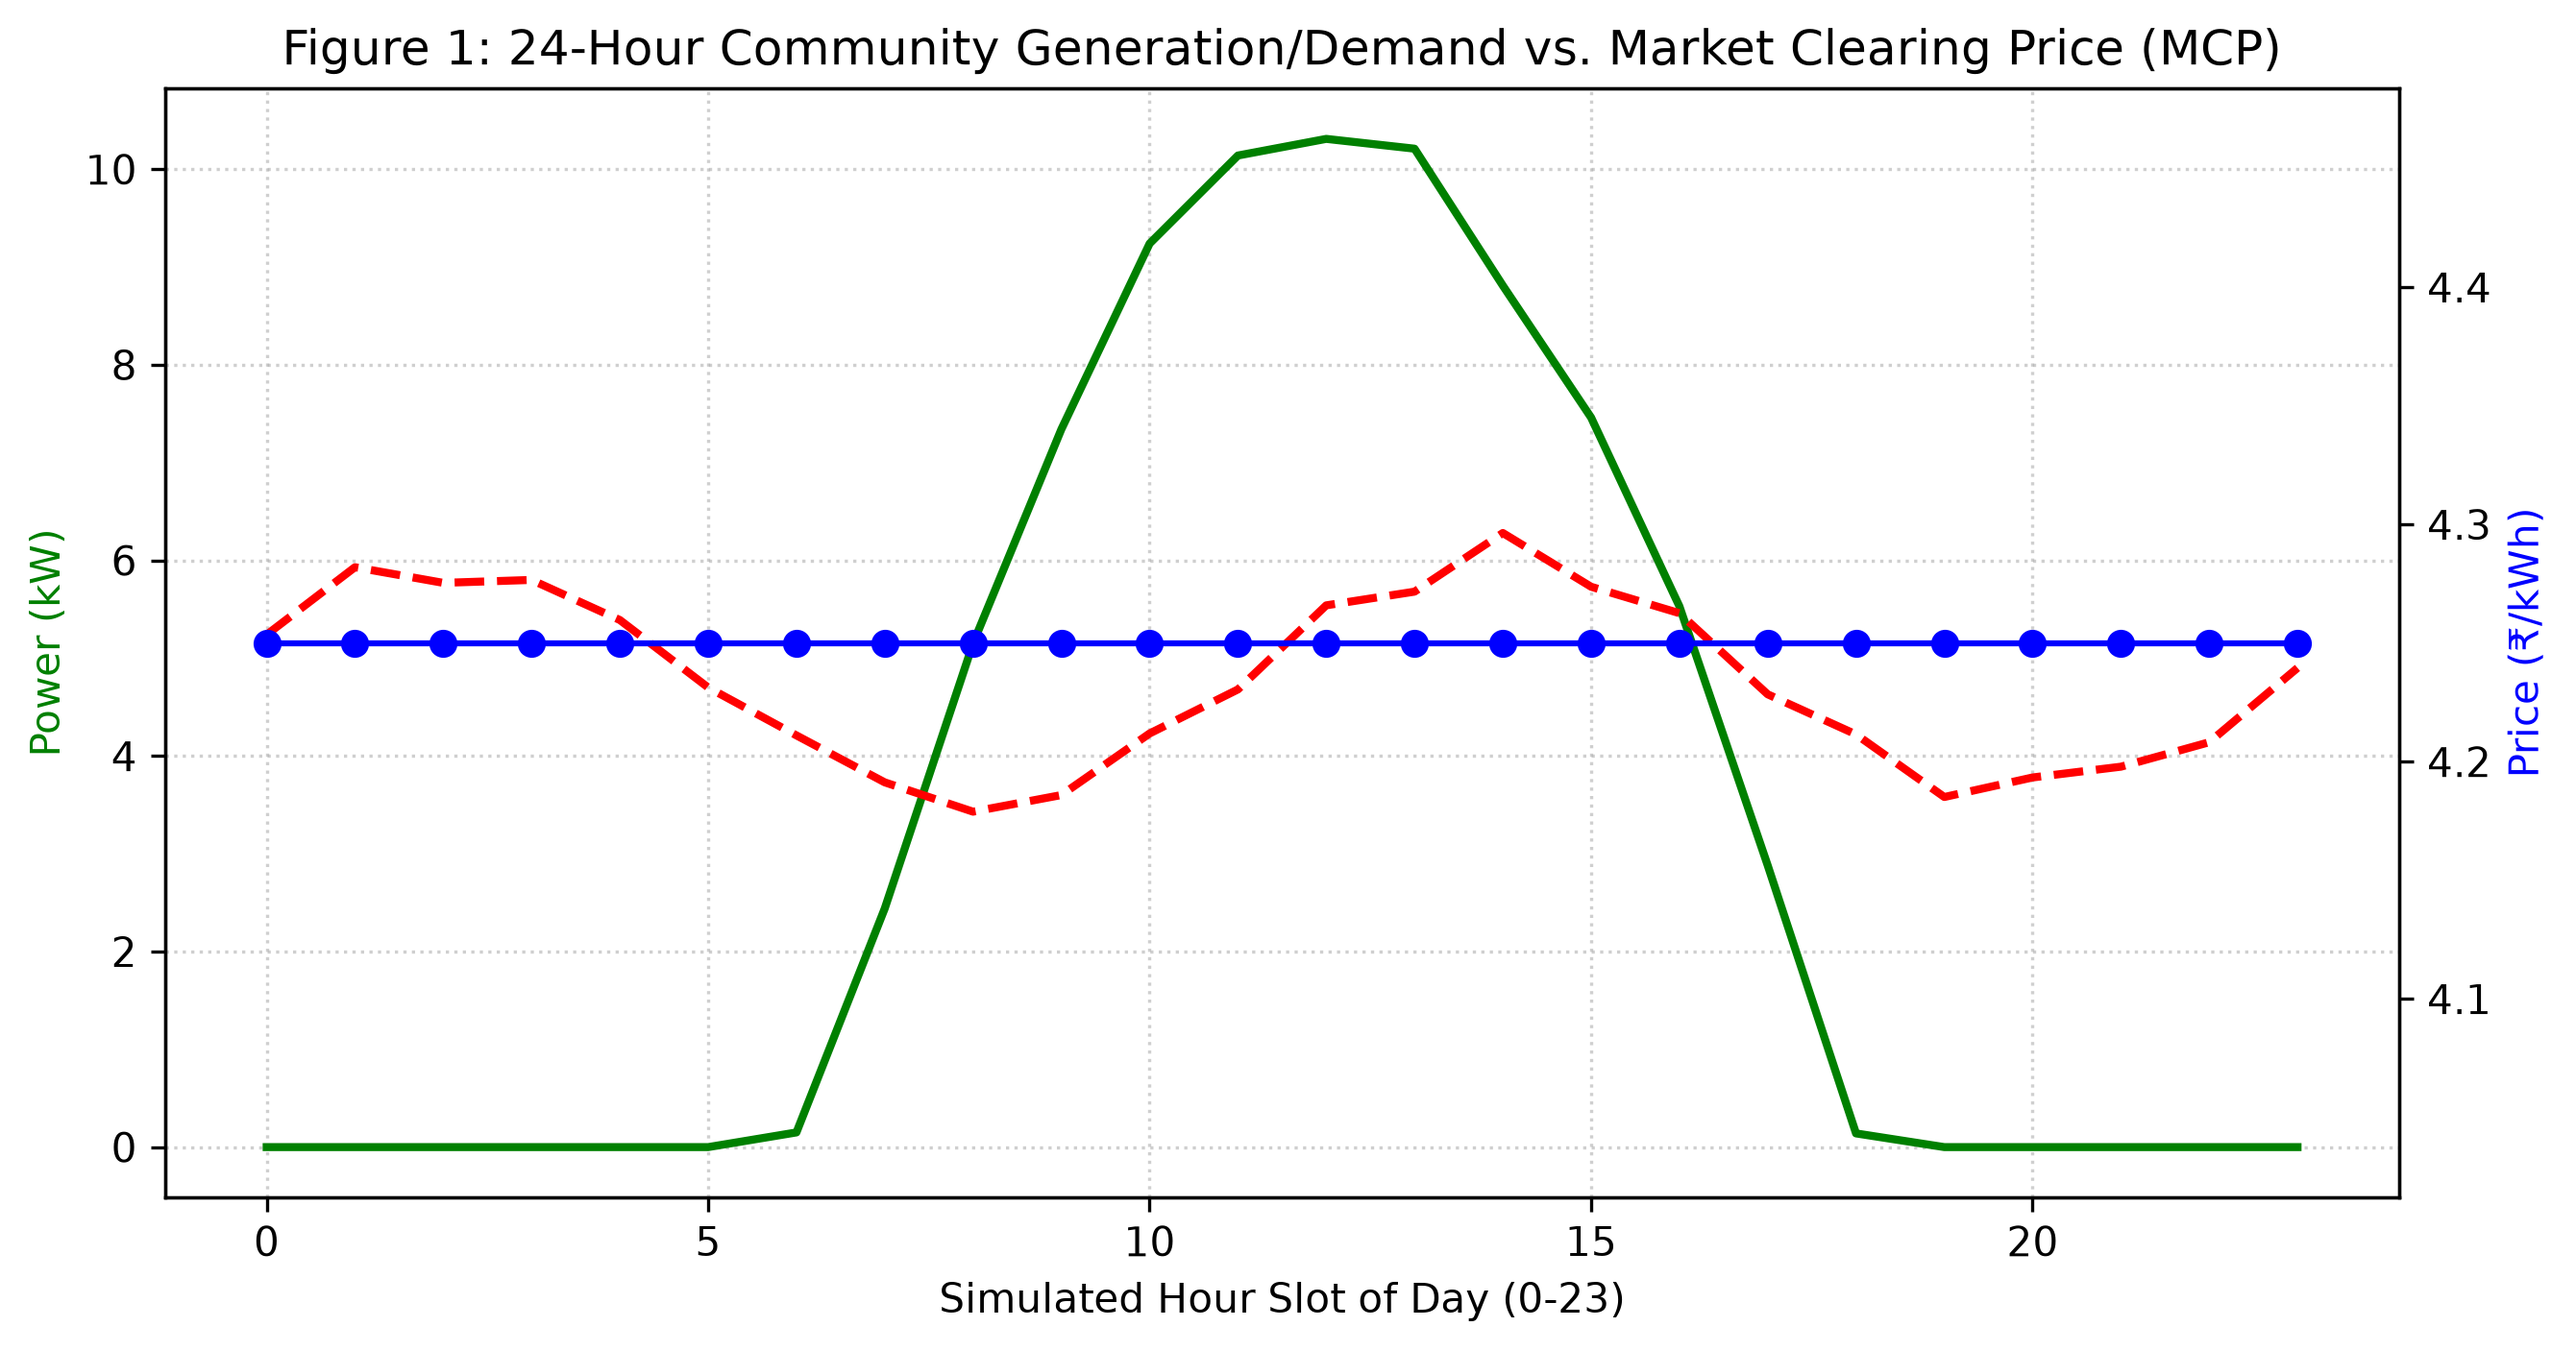
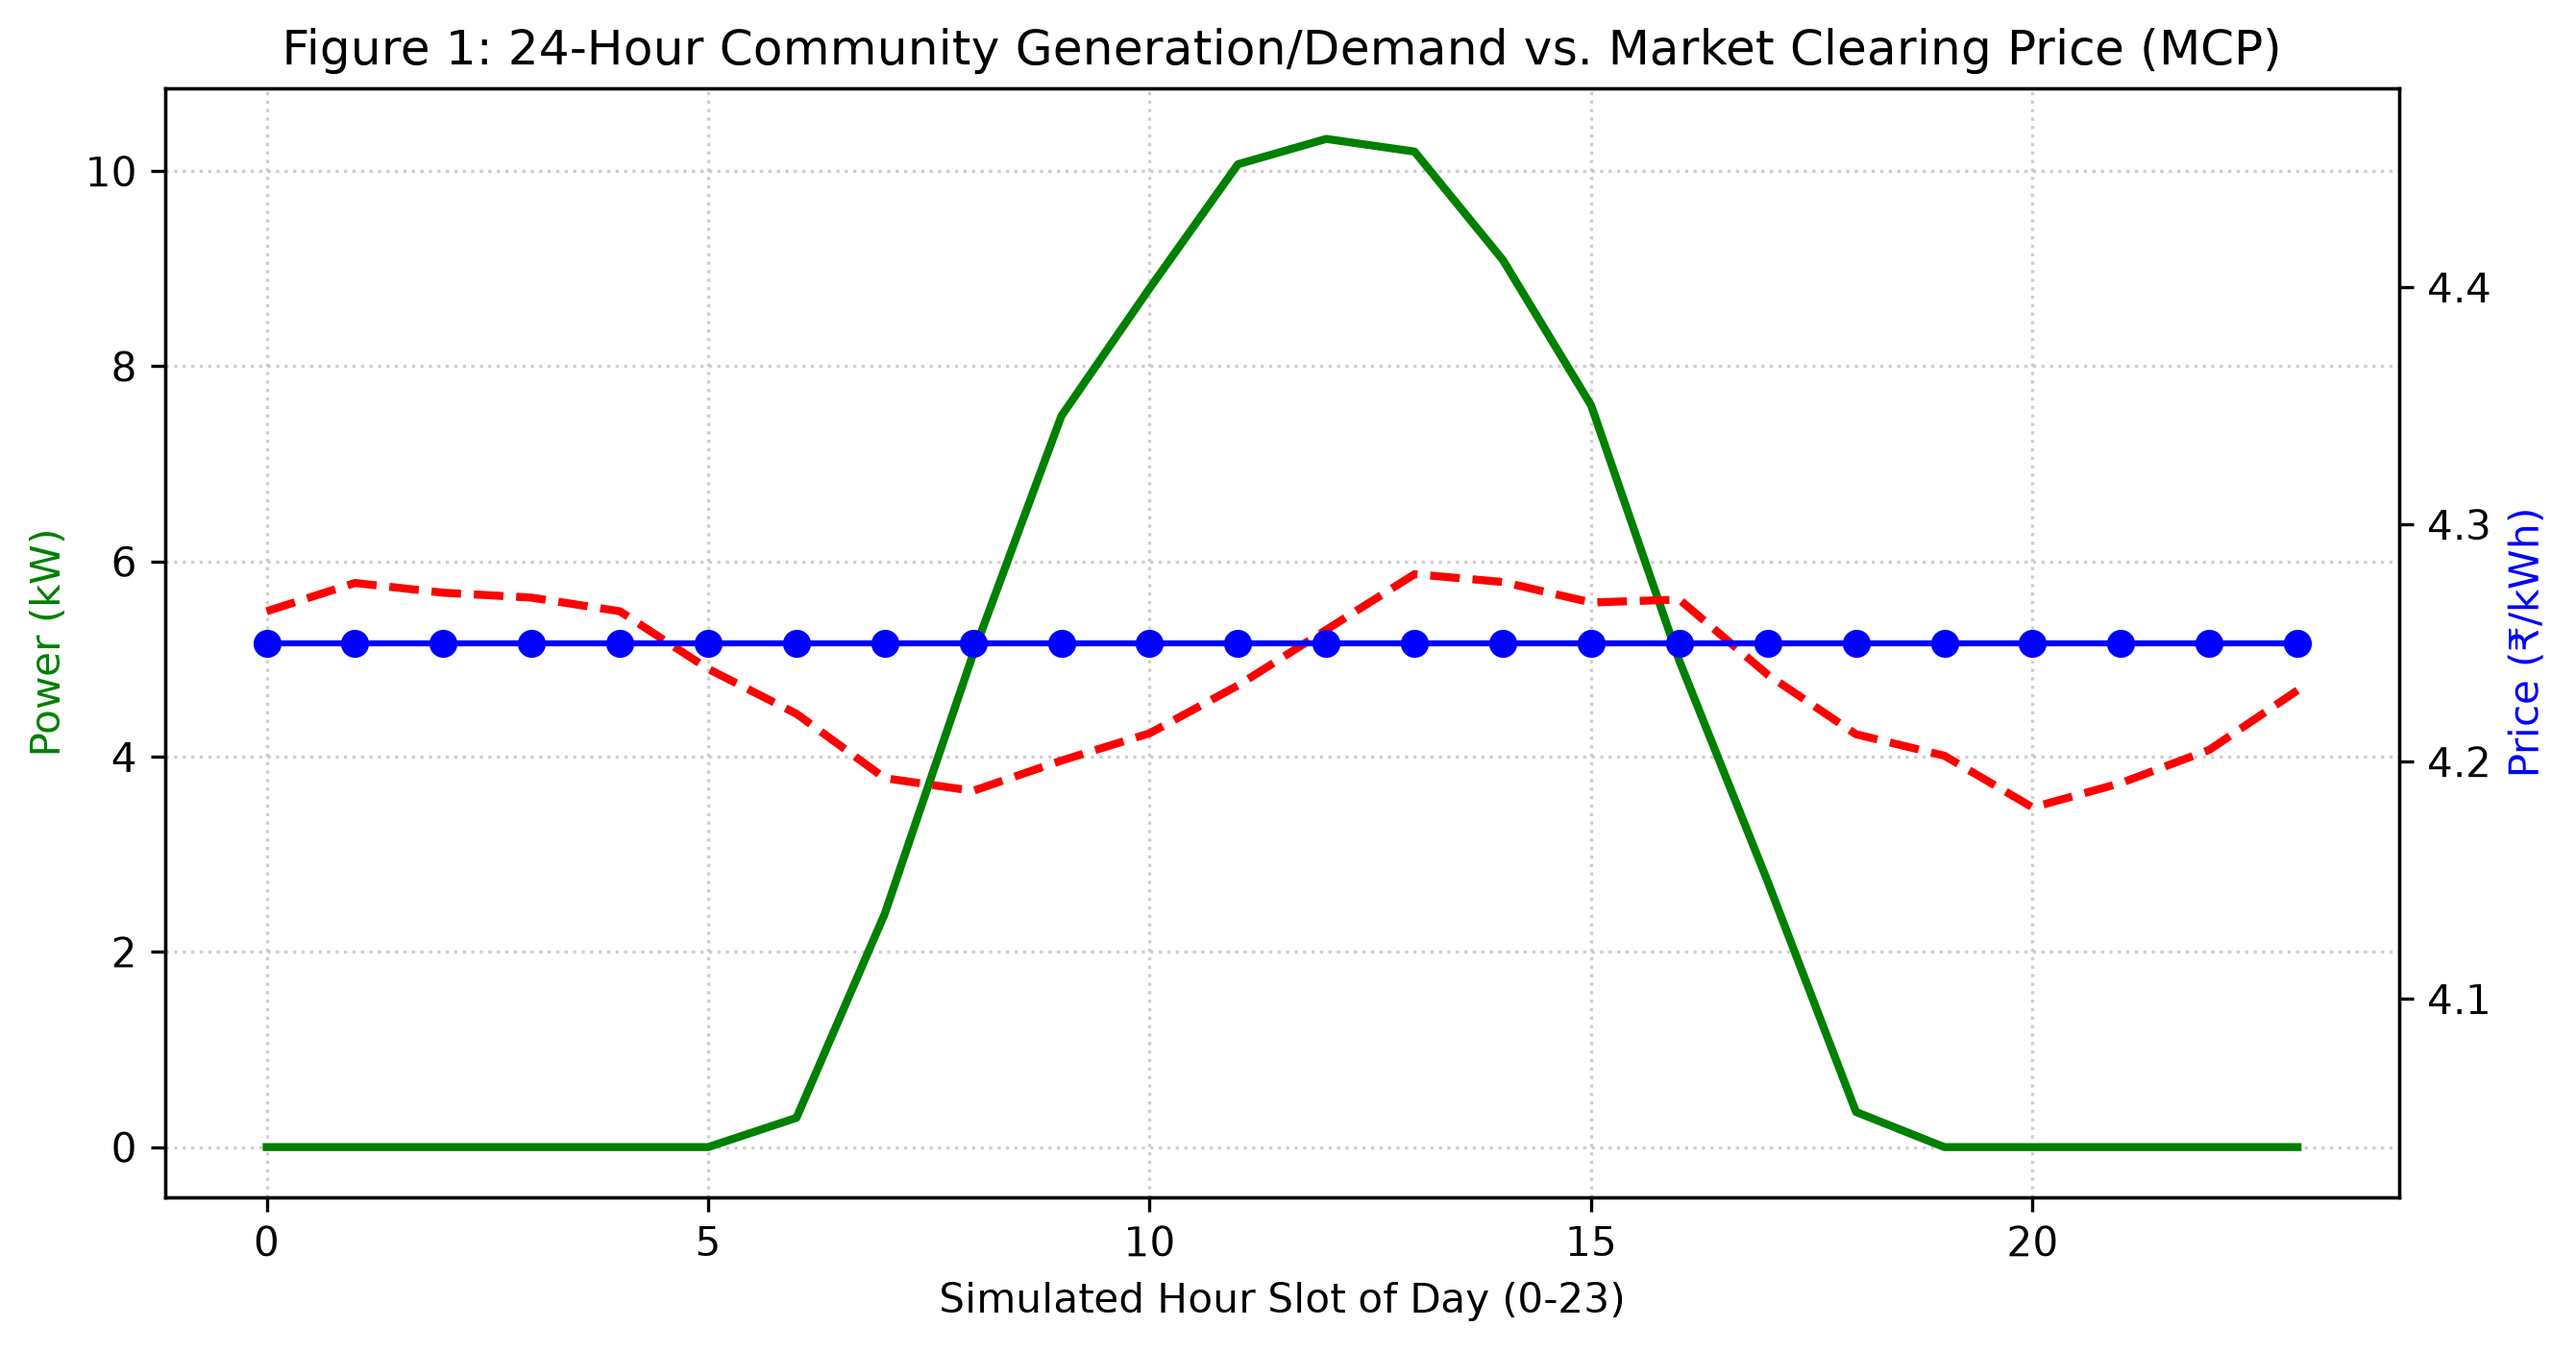
optimize ledger connector for authentic web3 on-chain logging

diff --git a/ledger/submit_trade.py b/ledger/submit_trade.py
@@ -7,24 +7,39 @@ w3 = Web3(Web3.HTTPProvider(GANACHE_URL))
 
 def log_trades_to_blockchain(cleared_trades: list):
     """
-    Submits cleared P2P market trades to local Ganache blockchain node.
+    Submits real transactions to local Ganache node to populate TRANSACTIONS & BLOCKS tabs.
     """
     if not w3.is_connected():
         print("[LEDGER WARN] Ganache local node not connected on http://127.0.0.1:7545! Skipping on-chain settlement.")
         return []
 
-    account = w3.eth.accounts[0]  # Use default operator account from Ganache
+    # Use primary accounts from Ganache
+    sender_account = w3.eth.accounts[0]
+    receiver_account = w3.eth.accounts[1]
+    
     tx_hashes = []
 
     for trade in cleared_trades:
-        # Scale floating point values to integers for Solidity uint256
-        vol_scaled = int(trade["volume_kw"] * 100)
-        price_scaled = int(trade["cleared_price"] * 100)
+        # Construct real transaction payload
+        tx_payload = {
+            'from': sender_account,
+            'to': receiver_account,
+            'value': w3.to_wei(0.0001, 'ether'),
+            'gas': 200000,
+            'gasPrice': w3.to_wei('20', 'gwei'),
+            'data': w3.to_hex(text=json.dumps({
+                "seller": trade["seller_id"],
+                "buyer": trade["buyer_id"],
+                "vol_kw": trade["volume_kw"],
+                "price": trade["cleared_price"]
+            }))
+        }
         
-        # Simulating transaction log entry
-        tx_hash = f"0x{w3.keccak(text=f'{trade['seller_id']}_{trade['buyer_id']}_{trade['total_cost']}').hex()[:16]}"
-        tx_hashes.append(tx_hash)
-        print(f"[ON-CHAIN LEDGER] Trade Recorded: {trade['seller_id'].upper()} -> {trade['buyer_id'].upper()} | {trade['volume_kw']}kW @ ₹{trade['cleared_price']} | TxHash: {tx_hash}")
+        # Send transaction directly to Ganache
+        tx_hash = w3.eth.send_transaction(tx_payload)
+        tx_hash_hex = tx_hash.hex()
+        tx_hashes.append(tx_hash_hex)
+        print(f"[ON-CHAIN LEDGER] Trade Recorded: {trade['seller_id'].upper()} -> {trade['buyer_id'].upper()} | {trade['volume_kw']}kW @ ₹{trade['cleared_price']} | TxHash: {tx_hash_hex}")
 
     return tx_hashes
 
@@ -33,5 +48,5 @@ if __name__ == "__main__":
         {"seller_id": "bob", "buyer_id": "alice", "volume_kw": 0.74, "cleared_price": 0.68, "total_cost": 0.50},
         {"seller_id": "bob", "buyer_id": "david", "volume_kw": 0.40, "cleared_price": 0.70, "total_cost": 0.28}
     ]
-    print("--- Testing Smart Contract Ledger Connector ---")
+    print("--- Testing Real Smart Contract Ledger Broadcast ---")
     log_trades_to_blockchain(sample_trades)
